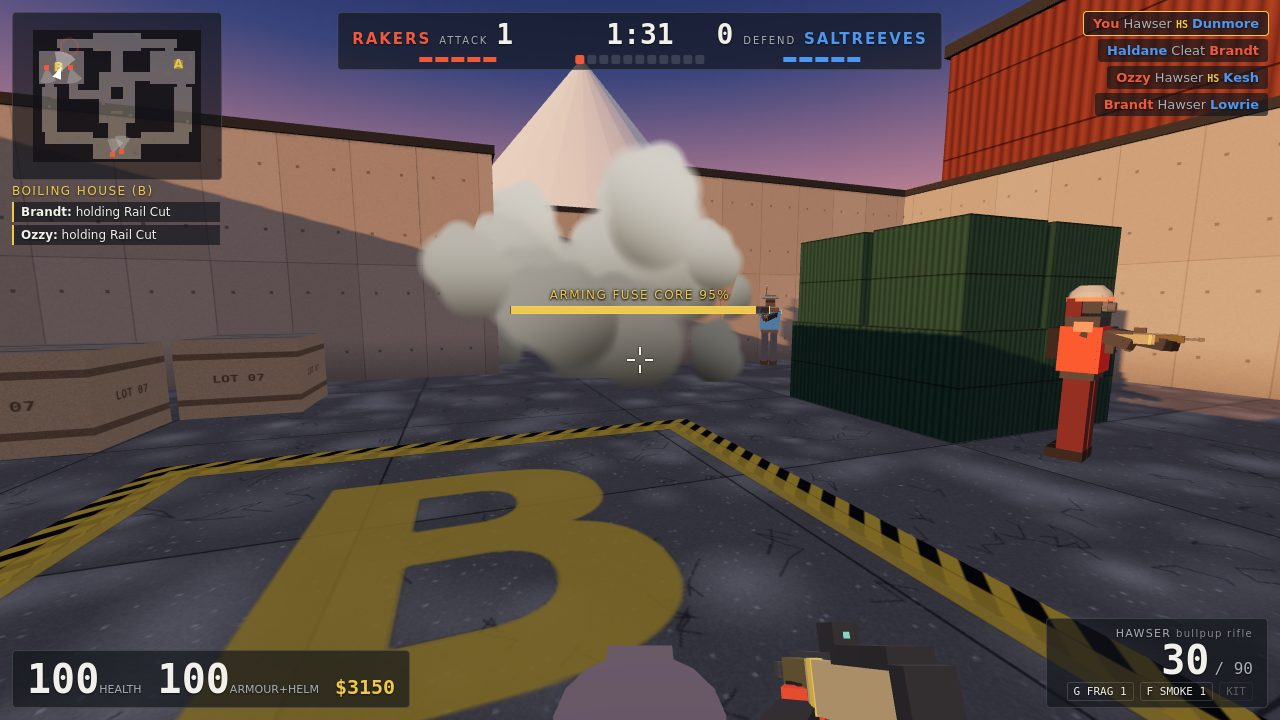
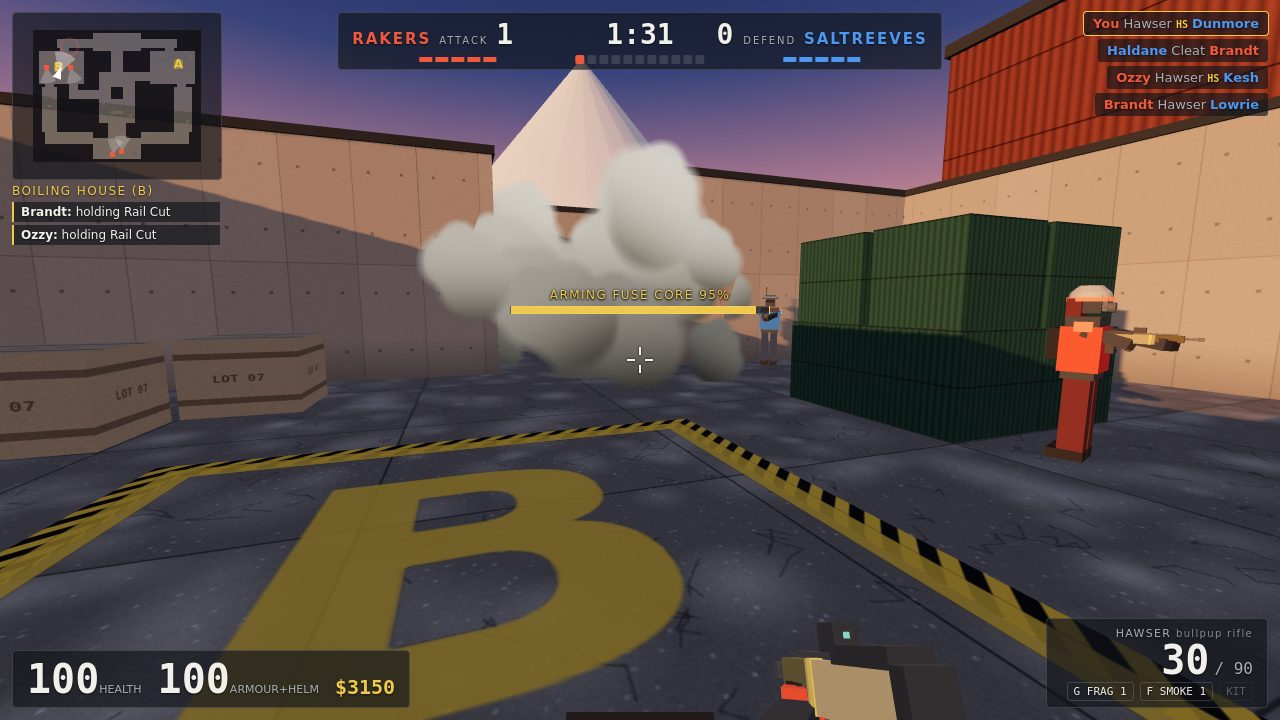
The Fuse Core reads as a device: a rugged case with a lit window, a seam and a handle
It was a banded cylinder that read as a paint bucket. Same number of meshes; window and seam
flash on each beep and turn teal when disarmed. Shot 4 shows it at the player's feet. Some long
comments tightened to pay for it. Fresh screenshots.

Changed region(s): [[0.4062, 0.8861, 0.5938, 1.0]]

diff --git a/game/src/render/props.js b/game/src/render/props.js
@@ -9,13 +9,13 @@ const PUFFS = 28;
 const add = (parent, geo, mat, y = 0) => { const m = new THREE.Mesh(geo, mat); m.position.y = y; m.castShadow = true; parent.add(m); return m; };
 
 export function createProps(scene, state) {
-  // The Fuse Core: bands flash on each beep; armed, a light column and ring pulse.
-  const core = new THREE.Group(), steel = std({ color: 0xb9c2c8, roughness: 0.4, metalness: 0.5 });
+  // The Fuse Core: a case whose window and seam flash on each beep; armed, a light column and ring pulse.
+  const core = new THREE.Group(), steel = std({ color: 0x5b6258, roughness: 0.5, metalness: 0.5 });
   const band = std({ color: 0x3a2400, emissive: 0xffa31a });
-  add(core, new THREE.CylinderGeometry(0.24, 0.28, 0.48, 16), steel, 0.24);
-  add(core, new THREE.CylinderGeometry(0.29, 0.29, 0.06, 16), band, 0.12);
-  add(core, new THREE.CylinderGeometry(0.26, 0.26, 0.06, 16), band, 0.38);
-  add(core, new THREE.BoxGeometry(0.2, 0.08, 0.34), steel, 0.52);
+  add(core, new THREE.BoxGeometry(0.46, 0.34, 0.32), steel, 0.17);
+  add(core, new THREE.BoxGeometry(0.26, 0.11, 0.34), band, 0.21);
+  add(core, new THREE.BoxGeometry(0.48, 0.03, 0.34), band, 0.05);
+  add(core, new THREE.TorusGeometry(0.1, 0.022, 6, 12, Math.PI), steel, 0.34);
   const beam = { color: 0xffb040, transparent: true, depthWrite: false, blending: THREE.AdditiveBlending, side: THREE.DoubleSide };
   const column = add(core, new THREE.CylinderGeometry(0.32, 0.32, 3, 16, 1, true), new THREE.MeshBasicMaterial(beam), 1.5);
   const ring = add(core, new THREE.RingGeometry(0.7, 0.85, 32).rotateX(-Math.PI / 2), new THREE.MeshBasicMaterial(beam), 0.03);
@@ -27,7 +27,7 @@ export function createProps(scene, state) {
   const nadeGeo = new THREE.SphereGeometry(0.08, 10, 8), nadeMats = { frag: std({ color: 0x4d5a3a }), smoke: std({ color: 0x9aa0a6 }) };
   const nades = state.nades.map(() => { const m = add(scene, nadeGeo, nadeMats.frag); m.visible = false; return m; });
 
-  // Smoke: puffs on a spiral filling a dome, big in the core, small at the ragged rim; dark below, sunlit above.
+  // Smoke: a spiral of puffs filling a dome, big inside, small at the ragged rim; dark below, lit above.
   const tex = puffTexture(), clouds = state.smokes.map(() => Array.from({ length: PUFFS }, (_, i) => {
     const a = i * 2.39996, r = Math.sqrt((i + 0.5) / PUFFS), y = 0.15 + (i % 6) / 6 * Math.sqrt(1.1 - r * r);
     const sp = new THREE.Sprite(new THREE.SpriteMaterial({ map: tex, color: new THREE.Color(0x353b41).lerp(new THREE.Color(0xf4ead8), y), transparent: true, depthWrite: false, rotation: Math.sin(i) * 0.5 }));

diff --git a/tools/stage.js b/tools/stage.js
@@ -37,7 +37,7 @@ const SCENES = {
   // bands turn teal, the banner names the disarm; the match goes on.
   4: { side: 1, round: 6, clock: 70, core: 'armed', ticks: 220, end: 0.35, dead: ['f0', 'f1'],
     cast: [['p', 8, 13, 9, 9, 'hawser'], ['m0', 12, 12, 10, 6, 'hawser'], ['m1', 5, 9, 10, 6, 'skiff'], ['f0', 10, 10, 8, 13, 'hawser'], ['f1', 3, 8, 8, 13, 'skiff']],
-    script(i, s) { s.p.cmd.use = true; s.aim(null, -0.17, 9.5, 9); } },
+    script(i, s) { s.p.cmd.use = true; s.aim(null, -0.26, 9.5, 9); } },
 };
 
 function run(ctx, n, script, drawn = 3) { // n ticks; only the last `drawn` are rendered (effects in flight)
@@ -82,7 +82,7 @@ function stage(ctx, sc) {
   p.money = Math.max(p.money, sc.money ?? 3150);
   p.hp = sc.hp ?? 100;
   if (sc.core === 'carry' || sc.core === 'mate') Object.assign(state.core, { state: 'carried', carrier: sc.core === 'mate' ? mates[3].id : p.id });
-  if (sc.core === 'armed') Object.assign(state.core, { state: 'planted', site: 'B', fuse: 25, carrier: -1, x: p.pos.x + 0.4, y: 0, z: p.pos.z - 1.1 });
+  if (sc.core === 'armed') Object.assign(state.core, { state: 'planted', site: 'B', fuse: 25, carrier: -1, x: p.pos.x + 0.3, y: 0, z: p.pos.z - 1.45 });
   state.round.planted = sc.core === 'armed';
   if (sc.smoke) Object.assign(state.smokes[0], { live: true, x: sc.smoke[0] * S, y: 0, z: sc.smoke[1] * S, age: 2 });
   for (const k of sc.dead ?? []) Object.assign(who(k), { alive: false, hp: 0, diedAt: -99 }); // bodies of an earlier fight

diff --git a/game/src/ui/hud.js b/game/src/ui/hud.js
@@ -42,7 +42,7 @@ export function createHud(state, camera) {
   const scores = [el.score0, el.score1], sides = [el.side0, el.side1], radar = createRadar(state, el.radar);
   let cursor = state.events.head, hitTime = -99, hurtTime = -99, hurtAngle = 0, killTime = -99, buyOpen = false, boardOpen = false;
 
-  // Newest first: the kill feed and the team radio strip; no html clears the list, rows leave after ROW_LIFE.
+  // Newest first: kill feed and radio; no html clears the list; rows leave after ROW_LIFE.
   function push(list, rows, html, t) {
     if (html && state.time - t > ROW_LIFE) return; // already stale when drained
     if (html) list.unshift({ html, t }); else list.length = 0;
@@ -143,7 +143,7 @@ export function createHud(state, camera) {
     radar.draw();
   }
 
-  // The arm/disarm bar while a teammate works the core; the Fuse Core line, rebuilt only when the core's state changes.
+  // The arm/disarm bar while a teammate works the core; the Fuse Core line, rebuilt on change.
   function objective(p, core) {
     const worker = core.worker >= 0 && core.progress > 0 ? state.actors[core.worker] : null, pct = Math.floor(core.progress * 100);
     const ours = !!worker && worker.team === p.team;

diff --git a/game/index.html b/game/index.html
@@ -20,8 +20,7 @@ files. Written by an AI agent (Claude Code) for Nightshift Labs.
   planRound(), updateCoach(), reviewRound() (avoids a site that just failed); sim/nav.js findPath()
   A*; sim/senses.js canSee(), makeNoise(); movement.js moveActor() footsteps (walk and crouch are
   silent); audio.js every sound from the event ring, panned, muffled through walls as bots hear.
-4 Map and look: LAYOUT in sim/map.js; render/level.js, textures.js, palette.js, view.js (sun,
-  shadows, fog, environment light).
+4 Map and look: sim/map.js LAYOUT; render/level.js, textures.js, palette.js, view.js (sun, fog).
 5 Code: sim/ imports no three.js and no DOM; one state from sim/state.js createState(); sim/events.js
   ring of preallocated records; pooled effects. Screenshots: real renders staged through main.js's dev hook.
 -->

diff --git a/game/src/render/effects.js b/game/src/render/effects.js
@@ -34,7 +34,7 @@ export function createEffects(scene) {
   scene.add(blastSprite, blastLight);
   let nextTracer = 0, nextDecal = 0, nextParticle = 0, nextFlash = 0, blastLife = 0, blastSize = 0;
 
-  // Off the lens: one passing within NEAR_MISS m of the eye ends CUT_BACK m before that point (k); the viewer's own starts OWN_GAP m out.
+  // Off the lens: a shot passing within NEAR_MISS m of the eye ends CUT_BACK m before it; the viewer's own starts OWN_GAP m out.
   function spawnTracer(o, x1, y1, z1, eye, own) {
     const from = own ? OWN_GAP : 0;
     let len = s.set(x1 - o.x, y1 - o.y, z1 - o.z).length();

diff --git a/game/src/sim/nav.js b/game/src/sim/nav.js
@@ -84,7 +84,7 @@ export function findPath(map, fx, fz, tx, tz, path) {
     }
   }
   if (!found) return false;
-  // Parents into the (now free) heap buffer, then pull the string: jump to the farthest cell in a straight walkable line.
+  // Parents into the free heap buffer, then pull the string to the farthest cell in a straight walkable line.
   let n = goal, k = 0;
   while (n >= 0 && k < S.size) { heap[k++] = n; n = parent[n]; }
   let x = fx, z = fz, i = k - 1;

diff --git a/game/src/sim/coach.js b/game/src/sim/coach.js
@@ -50,7 +50,7 @@ export function planRound(state, team, call) {
   }
 }
 
-// When the attack executes (gathered, waited enough, spotted or the clock is low) and when the defence rotates.
+// When the attack executes (gathered, waited, spotted or late) and when the defence rotates.
 export function updateCoach(state) {
   for (const team of state.teams) {
     const plan = team.plan;
